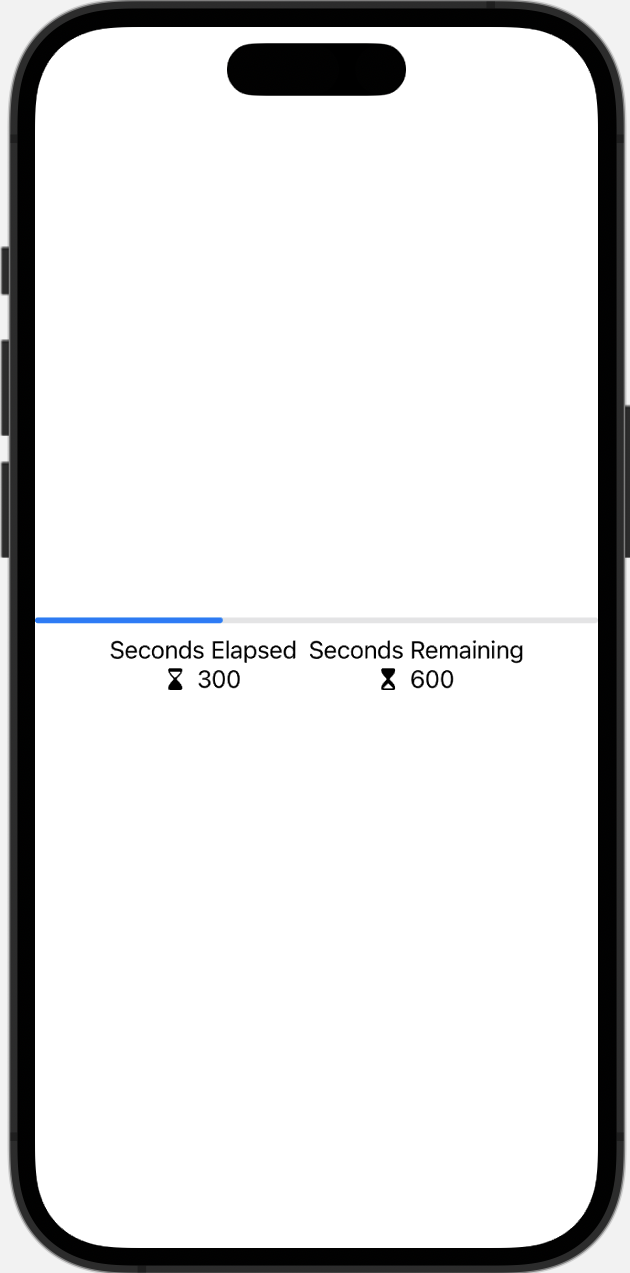
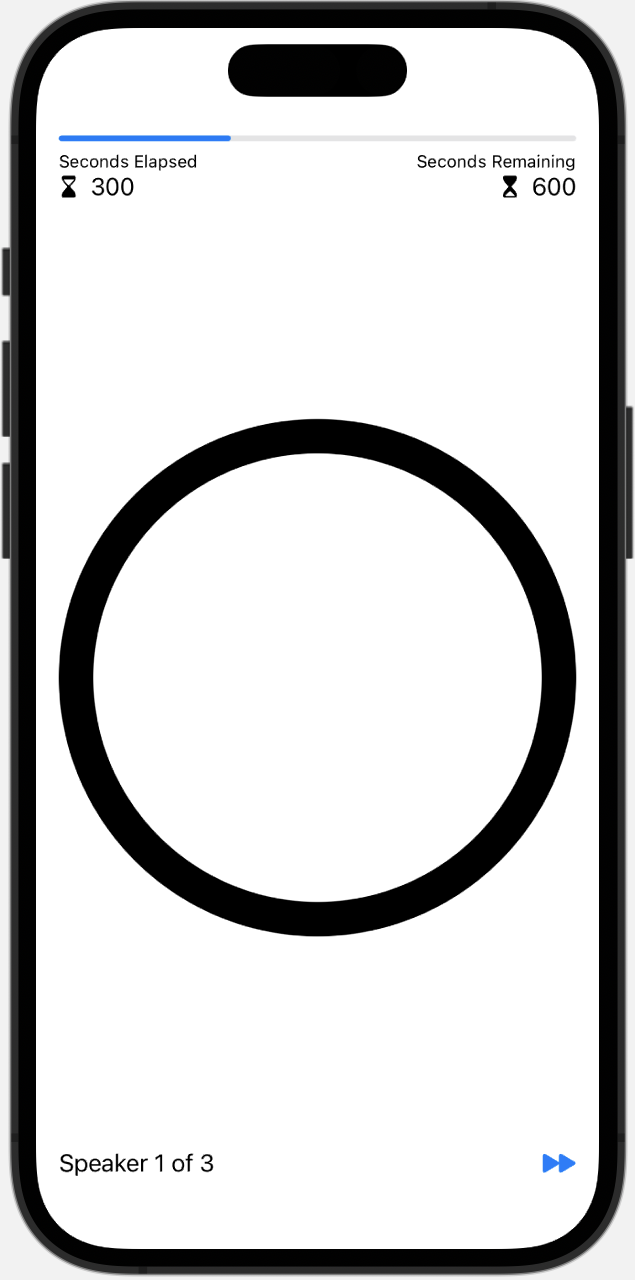
Modify and style timer screen

diff --git a/Scrumdinger/MeetingView.swift b/Scrumdinger/MeetingView.swift
@@ -12,16 +12,30 @@ struct MeetingView: View {
         VStack {
             ProgressView(value: 5, total: 15)
             HStack {
-                VStack {
+                VStack(alignment: .leading) {
                     Text("Seconds Elapsed")
+                        .font(.caption)
                     Label("300", systemImage: "hourglass.bottomhalf.fill")
                 }
-                VStack {
+                Spacer()
+                VStack(alignment: .trailing) {
                     Text("Seconds Remaining")
+                        .font(.caption)
                     Label("600", systemImage: "hourglass.tophalf.fill")
                 }
             }
+            Circle()
+                .strokeBorder(lineWidth: 24)
+            HStack {
+                Text("Speaker 1 of 3")
+                Spacer()
+                Button(action: {}) {
+                    Image(systemName: "forward.fill")
+                }
+
+            }
         }
+        .padding()
     }
 }
 
